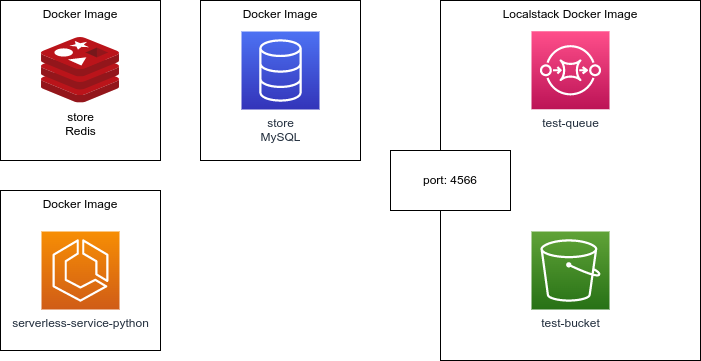
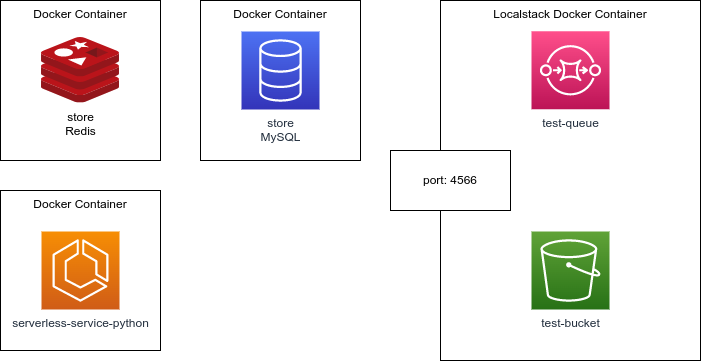
Atualização diagramas e README.md

diff --git a/README.md b/README.md
@@ -10,6 +10,8 @@ Template for build flexible API with AWS ECS services.
 ## Service Architecture
 Diagrams with application usage of this architecture.
 
+More details [here](https://drive.google.com/file/d/112om-id0zfd8qGd0Q4kTaoIwIgwx6DGJ/view?usp=sharing).
+
 ### Cloud Architecture
 Example of the architecture running on AWS Cloud.
 
